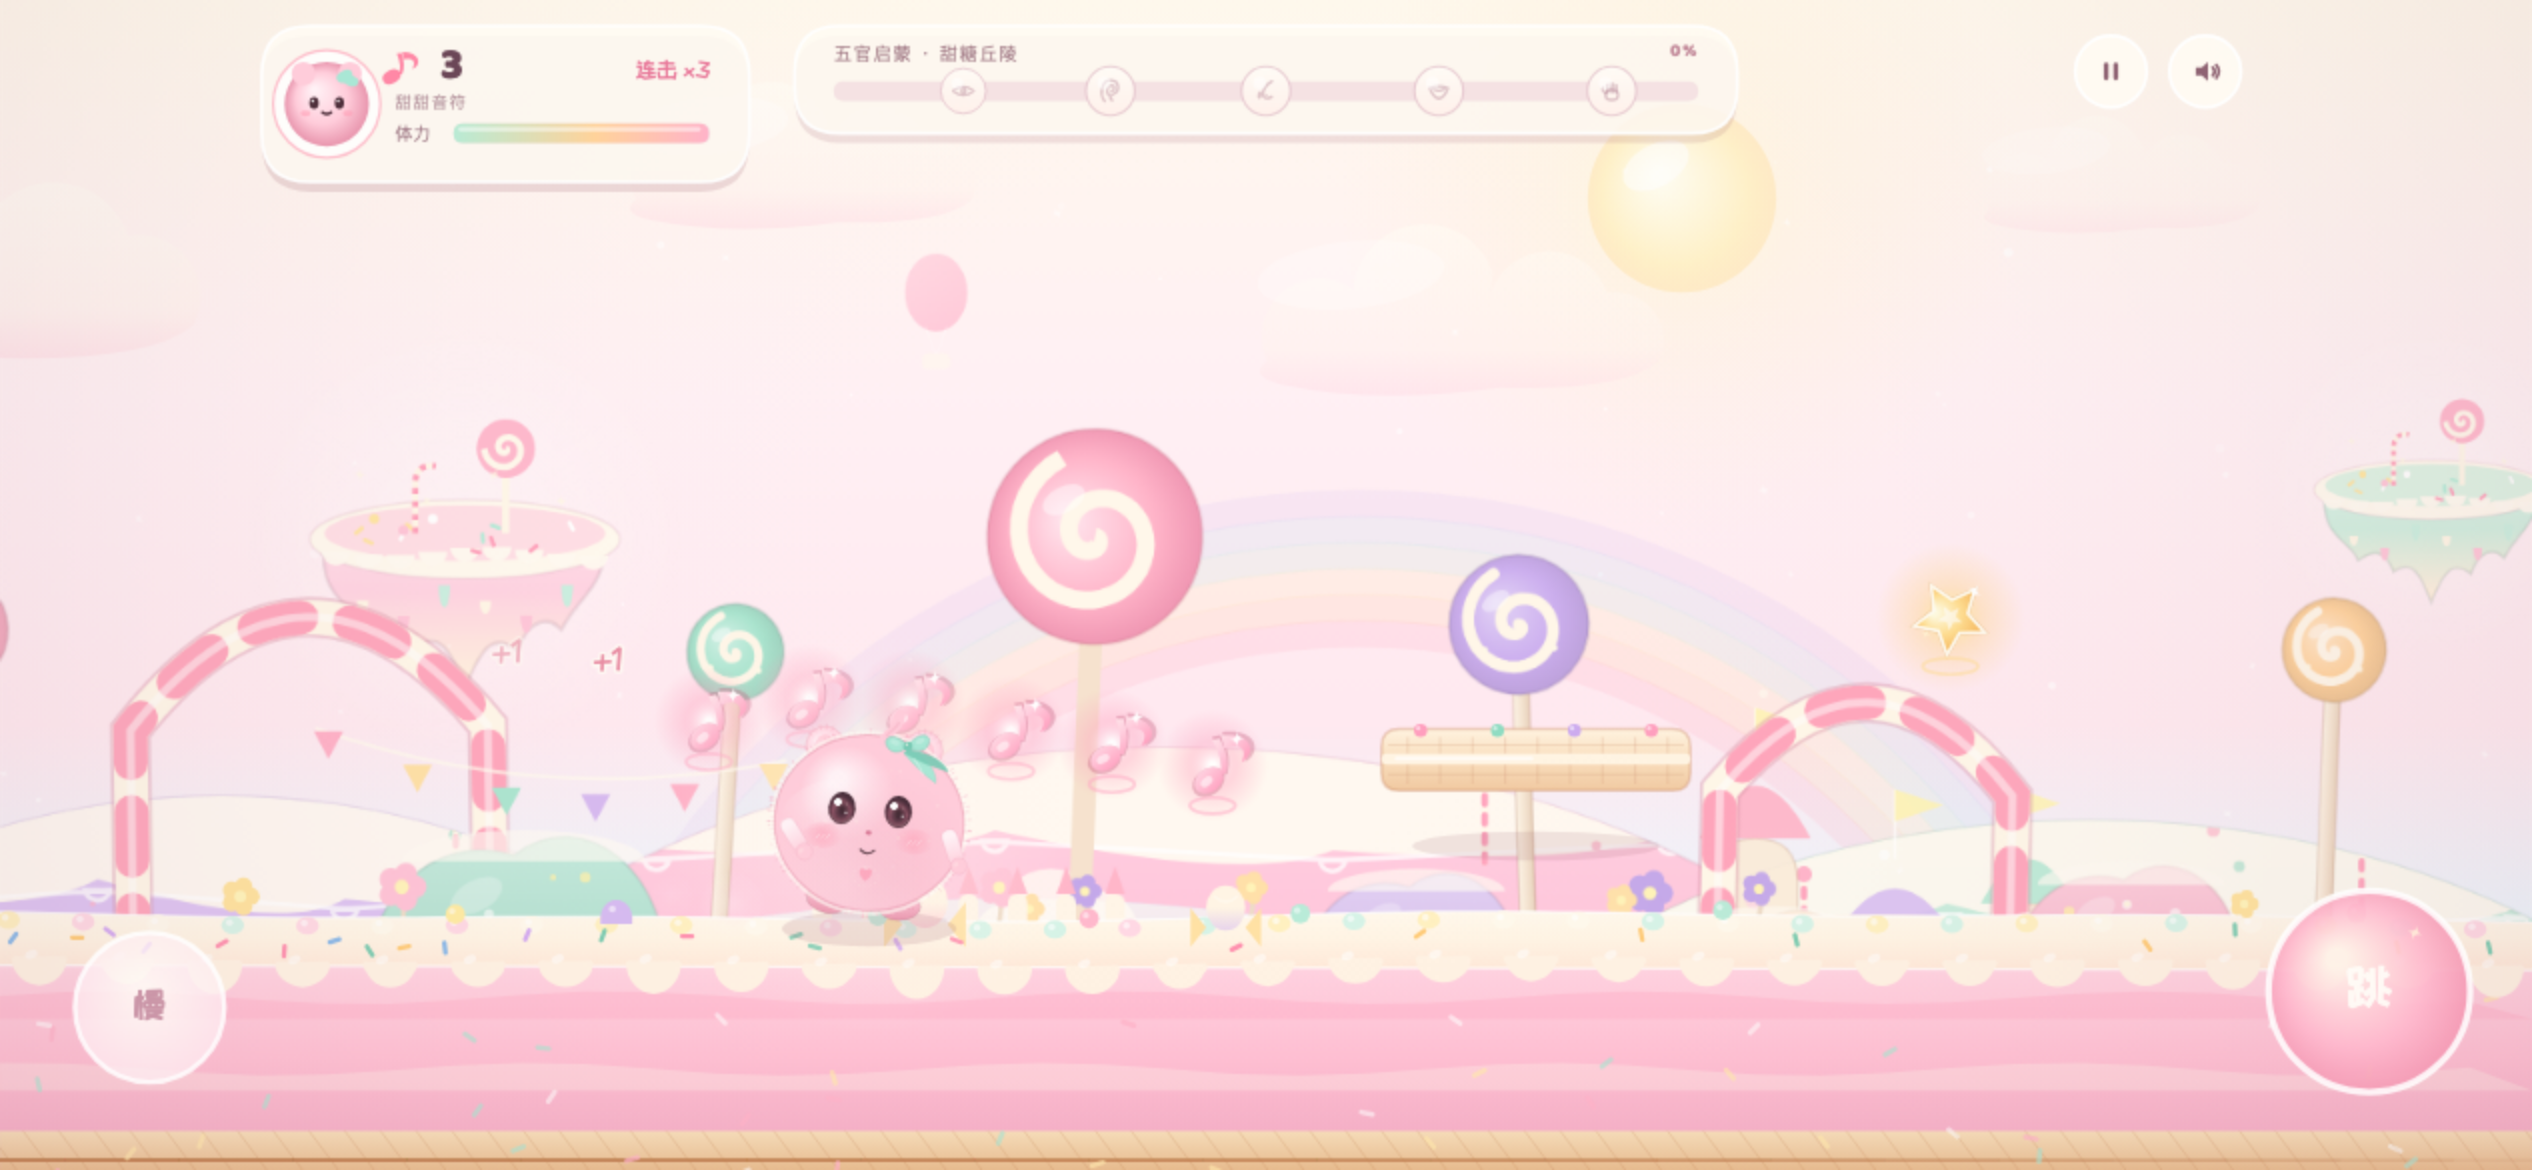
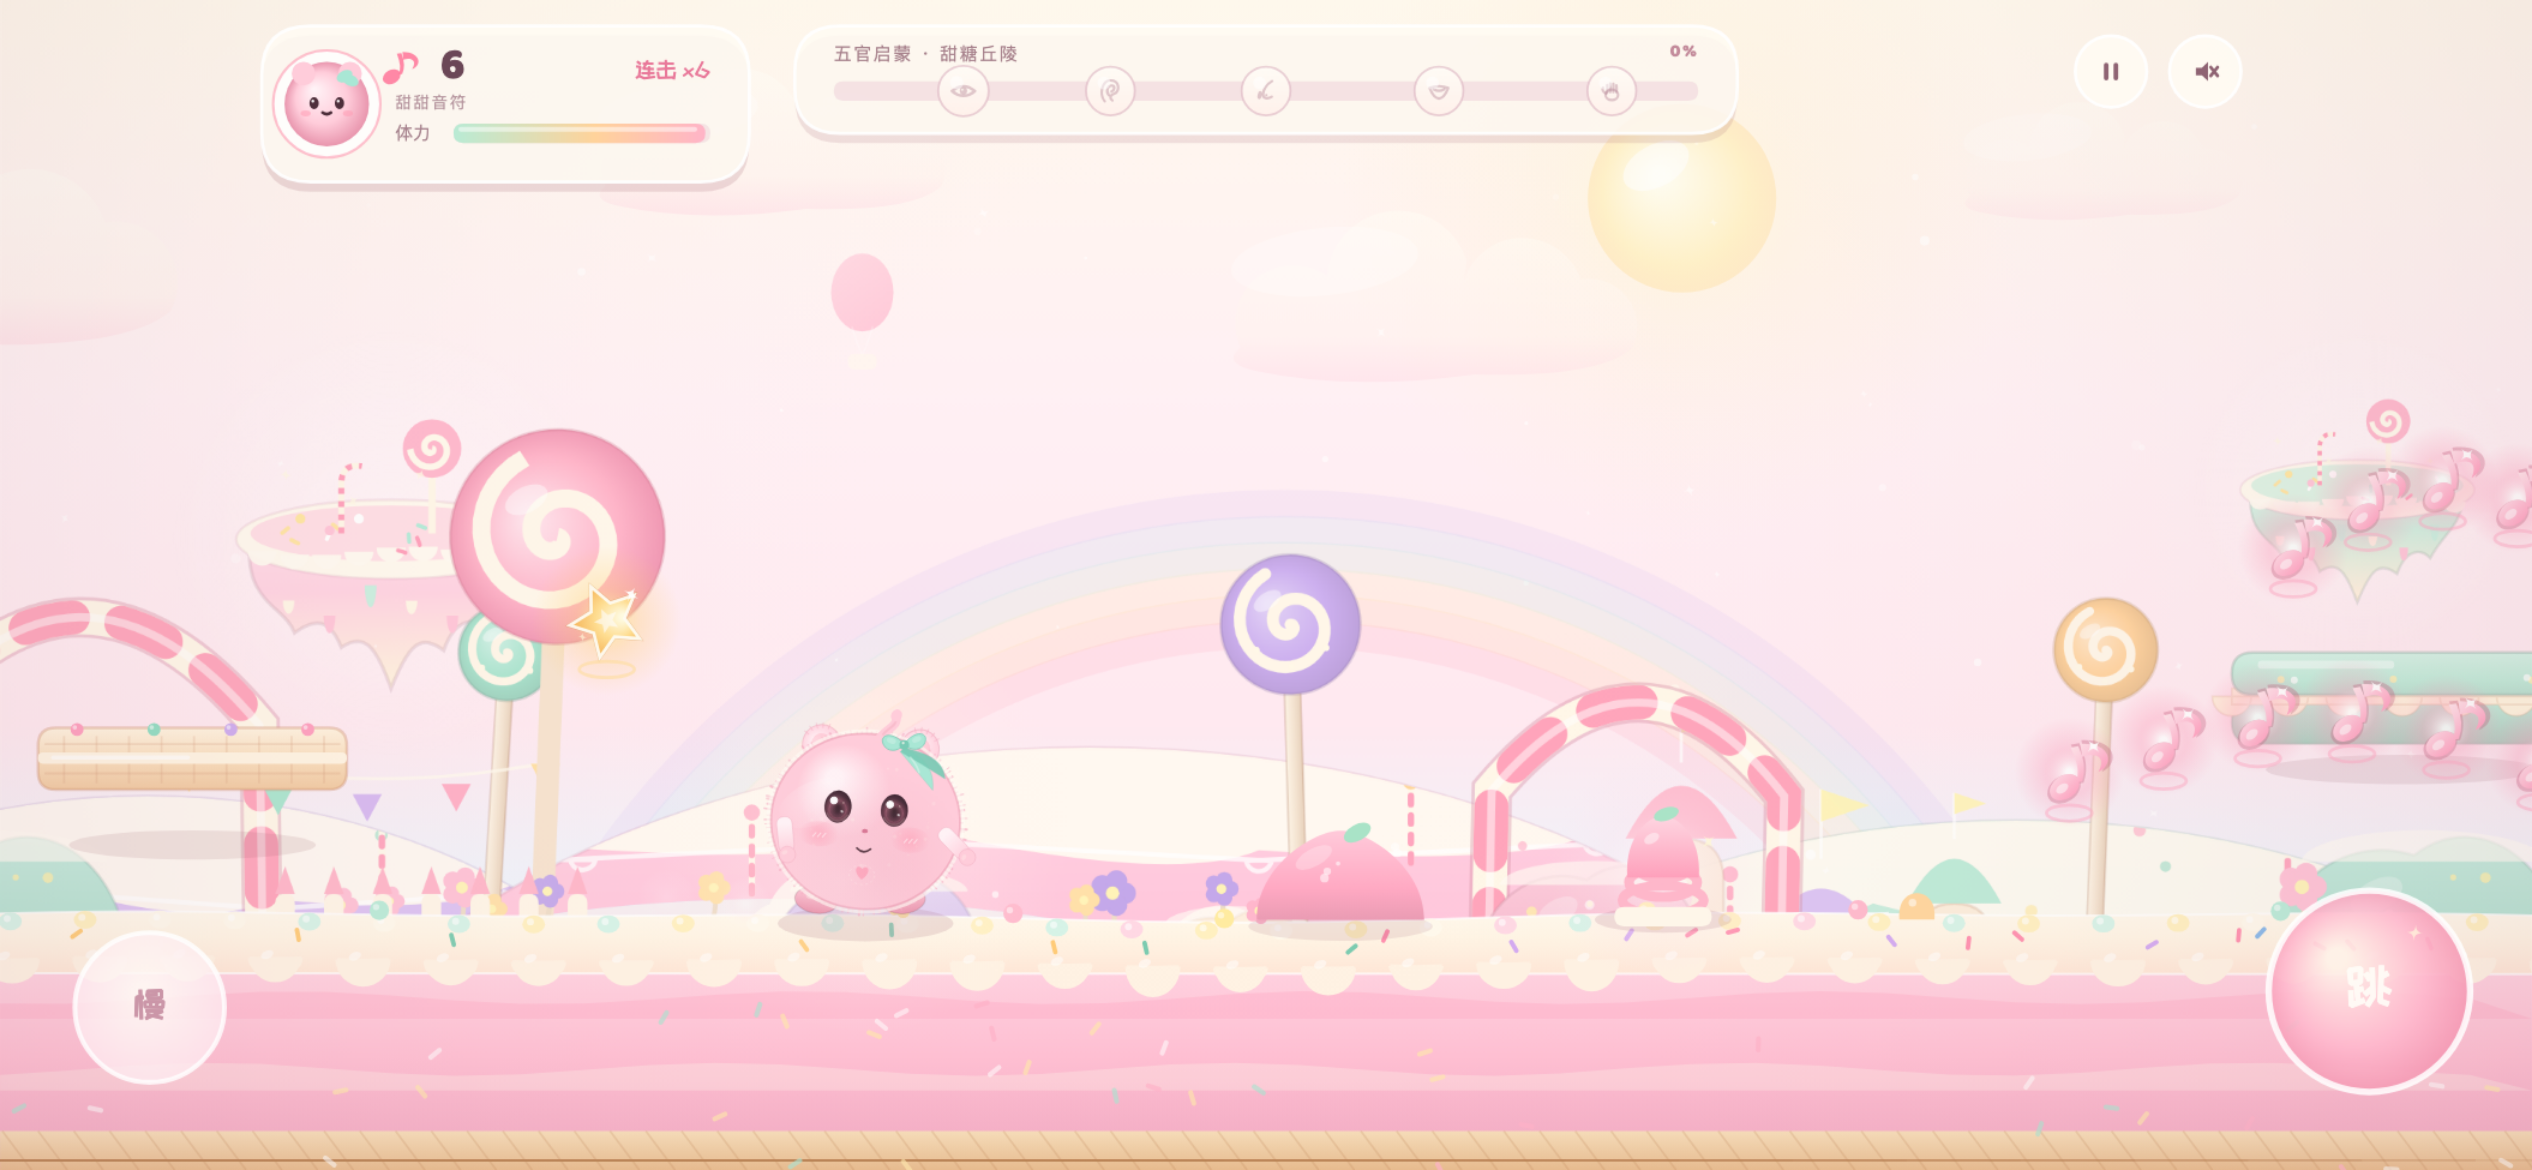
Add files via upload

diff --git a/MeloFuff/js/game.js b/MeloFuff/js/game.js
@@ -22,10 +22,19 @@ class MeloGame {
   constructor(canvas) {
     this.canvas = canvas;
     this.ctx = canvas.getContext('2d');
-    this.maxRenderCap = Math.min(window.devicePixelRatio || 1, 1.5);
+    this.ctx.imageSmoothingEnabled = true;
+    this.ctx.imageSmoothingQuality = 'high';
+    const nativeDpr = window.devicePixelRatio || 1;
+    this.maxRenderCap = Math.min(nativeDpr, 3);
+    // keep at least 2x on retina phones so text and edges stay crisp;
+    // only drop below that on genuinely low-DPI devices.
+    this.minRenderCap = Math.min(this.maxRenderCap, Math.max(1, Math.min(2.5, nativeDpr)));
     this.renderCap = this.maxRenderCap;
     this.dpr = this.maxRenderCap;
     this.perfAccum = 0;
+    this.perfWarmup = 2.5;
+    this.lowPerfStreak = 0;
+    this.highPerfStreak = 0;
     this.view = { scale: 1, ox: 0, oy: 0, cssW: 0, cssH: 0 };
     this.frameX = 0;
     this.playAnchor = 360;
@@ -575,12 +584,31 @@ class MeloGame {
     this.fpsSmooth = U.lerp(this.fpsSmooth, 1 / Math.max(dt, 0.001), 0.05);
     this.time += dt;
     this.perfAccum += dt;
-    if (this.perfAccum > 2.4) {
+    if (this.perfWarmup > 0) this.perfWarmup -= dt;
+    if (this.perfAccum > 1.2 && this.perfWarmup <= 0) {
       this.perfAccum = 0;
-      // adaptive resolution: stay crisp when the device can afford it
-      if (this.fpsSmooth < 48 && this.renderCap > 1.001) {
-        this.renderCap = Math.max(1, this.renderCap - 0.25);
-        this.resize();
+      // Adaptive resolution with hysteresis: start at full device pixel
+      // density, only step down after sustained low FPS, and climb back
+      // up when the device has headroom. This keeps text crisp on phones.
+      if (this.fpsSmooth < 44) {
+        this.highPerfStreak = 0;
+        this.lowPerfStreak += 1;
+        if (this.lowPerfStreak >= 2 && this.renderCap > this.minRenderCap + 0.001) {
+          this.renderCap = Math.max(this.minRenderCap, this.renderCap - 0.35);
+          this.lowPerfStreak = 0;
+          this.resize();
+        }
+      } else if (this.fpsSmooth > 56) {
+        this.lowPerfStreak = 0;
+        this.highPerfStreak += 1;
+        if (this.highPerfStreak >= 5 && this.renderCap < this.maxRenderCap - 0.001) {
+          this.renderCap = Math.min(this.maxRenderCap, this.renderCap + 0.35);
+          this.highPerfStreak = 0;
+          this.resize();
+        }
+      } else {
+        this.lowPerfStreak = 0;
+        this.highPerfStreak = 0;
       }
     }
     this.flash = Math.max(0, this.flash - dt * 1.7);

diff --git a/MeloFuff/js/world.js b/MeloFuff/js/world.js
@@ -11,6 +11,11 @@ class CandyWorld {
     this.fixedNotes = [];
     this.lollipops = [];
 
+    // Pre-rendered scenery is built at a higher resolution on retina
+    // screens; otherwise the 1x tiles look soft when the canvas is scaled.
+    const dpr = window.devicePixelRatio || 1;
+    this.tileScale = dpr >= 2.5 ? 1.8 : dpr > 1.3 ? 2 : 1;
+
     this.farTile = this._buildFarTile();
     this.midTile = this._buildMidTile();
     this.nearTile = this._buildNearTile();
@@ -148,9 +153,18 @@ class CandyWorld {
      parallax scenery
      ========================================================= */
 
+  _makeTile(w, h) {
+    const f = this.tileScale;
+    const c = U.makeTile(w * f, h * f);
+    c.logicalW = w;
+    c.logicalH = h;
+    const ctx = c.getContext('2d');
+    ctx.scale(f, f);
+    return { c, ctx };
+  }
+
   _buildFarTile() {
-    const c = U.makeTile(1920, 720);
-    const x = c.getContext('2d');
+    const { c, ctx: x } = this._makeTile(1920, 720);
     const r = U.mulberry32(717);
 
     // a whisper of rainbow behind the far hills
@@ -478,8 +492,7 @@ class CandyWorld {
   }
 
   _buildMidTile() {
-    const c = U.makeTile(1800, 720);
-    const x = c.getContext('2d');
+    const { c, ctx: x } = this._makeTile(1800, 720);
     const r = U.mulberry32(991);
 
     const hill = (cx, base, rx, ry, color) => {
@@ -676,8 +689,7 @@ class CandyWorld {
   }
 
   _buildNearTile() {
-    const c = U.makeTile(1500, 720);
-    const x = c.getContext('2d');
+    const { c, ctx: x } = this._makeTile(1500, 720);
     const r = U.mulberry32(335);
 
     // plump gumdrop bushes, mainly for a low foreground fringe
@@ -897,10 +909,12 @@ class CandyWorld {
 
   drawParallax(ctx, camX, t) {
     const drawTile = (tile, speed, yOff = 0) => {
-      const w = tile.width;
+      const w = tile.logicalW || tile.width;
       let off = -((camX * speed) % w);
       if (off > 0) off -= w;
-      for (let x = off; x < U.W + w; x += w) ctx.drawImage(tile, x, yOff);
+      for (let x = off; x < U.W + w; x += w) {
+        ctx.drawImage(tile, x, yOff, w, tile.logicalH || tile.height);
+      }
     };
     drawTile(this.farTile, 0.055, 0);
     drawTile(this.midTile, 0.17, 8);

diff --git a/MeloFuff/js/scenes.js b/MeloFuff/js/scenes.js
@@ -346,9 +346,11 @@ class TitleScene {
     // dreamy far-away candy kingdom, kept quiet behind the menu
     world.drawSky(ctx, t, camX);
     const far = world.farTile;
-    let off = -((camX * 0.08) % far.width);
-    if (off > 0) off -= far.width;
-    for (let x = off; x < W + far.width; x += far.width) ctx.drawImage(far, x, 0);
+    const farW = far.logicalW || far.width;
+    const farH = far.logicalH || far.height;
+    let off = -((camX * 0.08) % farW);
+    if (off > 0) off -= farW;
+    for (let x = off; x < W + farW; x += farW) ctx.drawImage(far, x, 0, farW, farH);
 
     ctx.save();
     ctx.translate(fx, 0);

diff --git a/MeloFuff/README.md b/MeloFuff/README.md
@@ -141,6 +141,7 @@ MeloFuff/
 - 麦克风录音只用 `getUserMedia` + `AnalyserNode` 做本地采样，结束后立刻停止音轨、关闭音频上下文。
 - 移动端全画幅：横屏时保持 720 逻辑高度，把逻辑宽度按屏幕宽高比扩展到 1280–2200，跑酷相机锚点随安全框居中，所以视野更宽而不是两侧留白；使用 `visualViewport` 跟随地址栏收放，读取 `safe-area-inset-*` 让刘海和 Home 指示条不遮挡操作。
 - 竖屏显示一张全屏的横屏引导海报，旋转后自动切回横屏舞台。
+- 手机清晰度：Canvas 按设备像素比渲染（retina 屏下限为 2–2.5 倍，性能不足时会自适应降到 2.5 倍），背景预渲染层在 retina 下用 1.8–2 倍分辨率生成，避免地址栏/缩放造成的发虚。
 
 ## 内测调试参数
 
